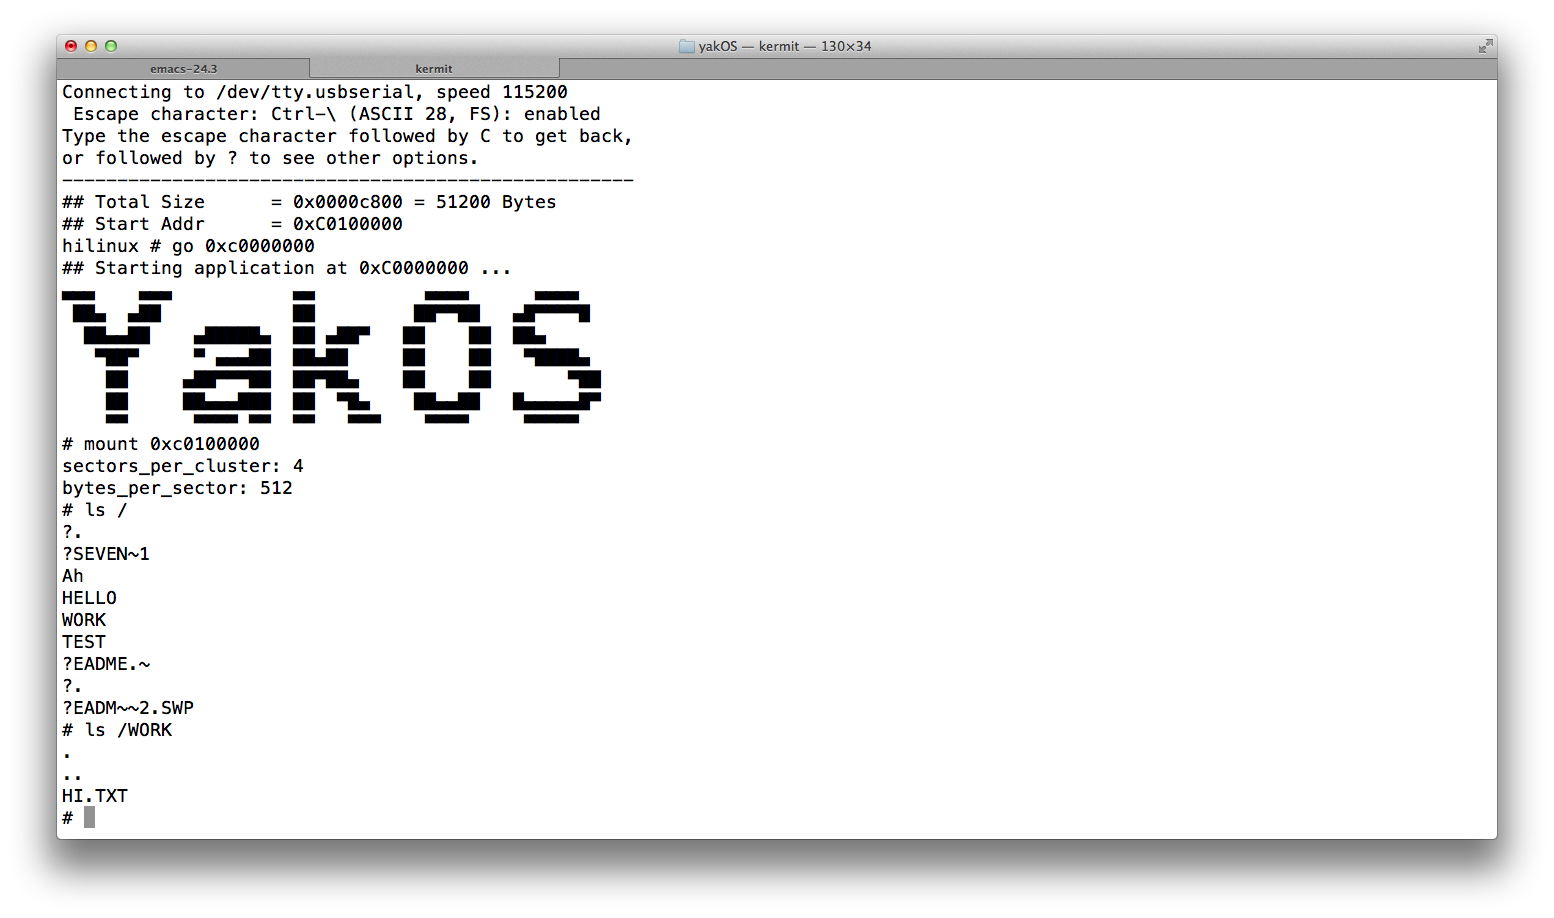
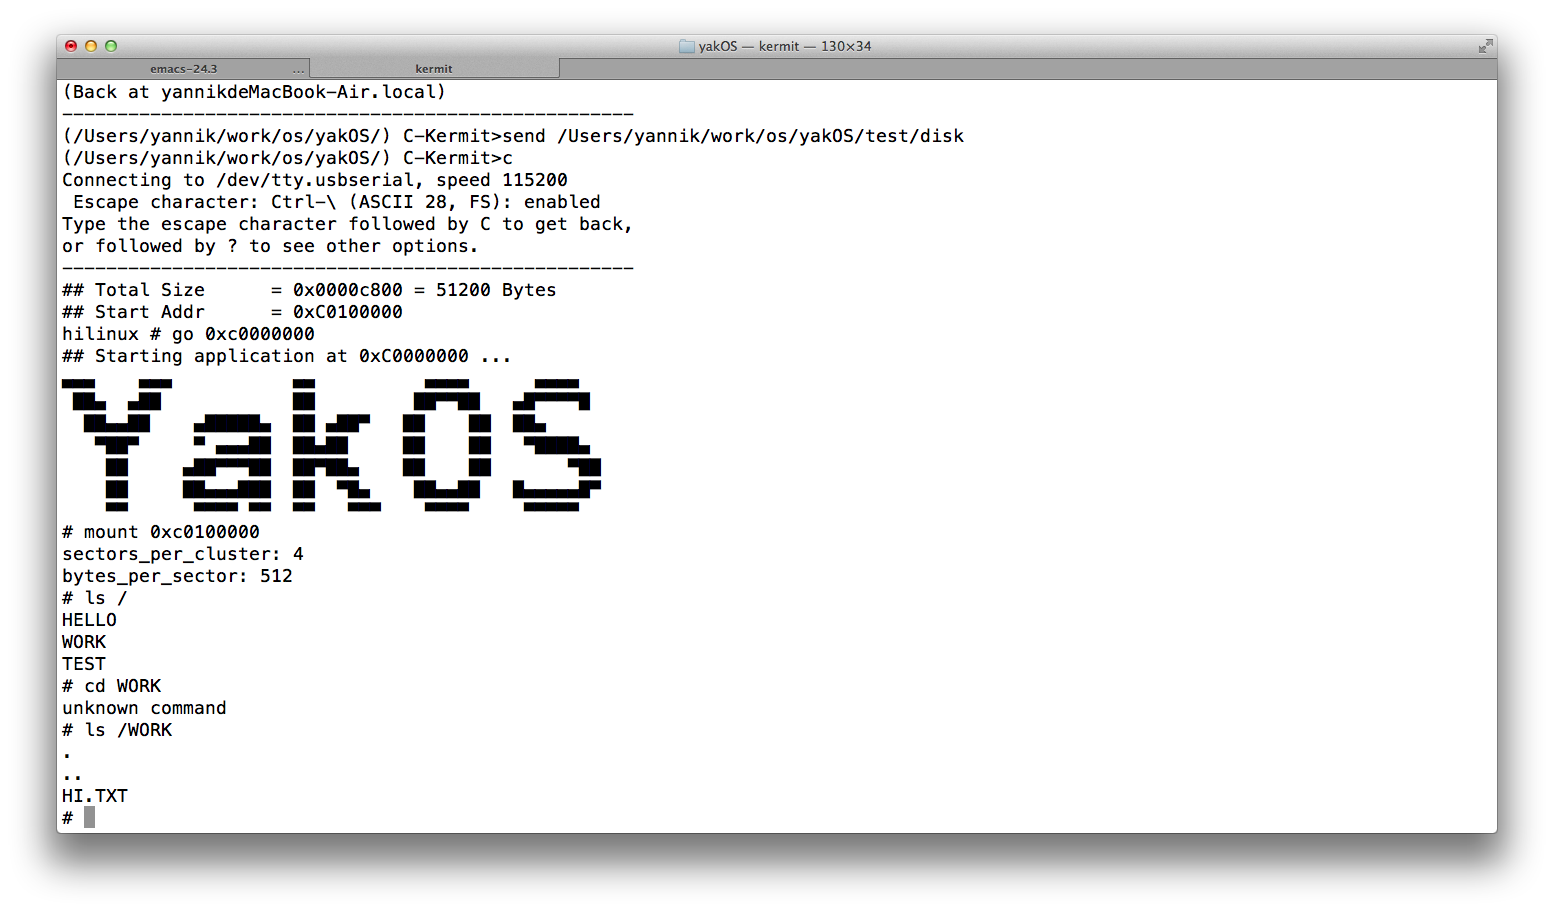
filter the deleted file in fat file system

Changed region(s): [[0.0309, 0.0614, 0.9575, 0.8289], [0.0309, 0.8596, 0.0927, 0.9211]]

diff --git a/fs/vfsfat.c b/fs/vfsfat.c
@@ -36,6 +36,16 @@
 #include "fs/vfsfs.h"
 #include "fs/vfsfat.h"
 
+#define DENTRY_IS_DIR(_dentry_)     ((_dentry_)->attribute & 0x10)
+#define DENTRY_IS_ARCHIVE(_dentry_) ((_dentry_)->attribute & 0x20)
+#define DENTRY_IS_LONG_NAME(_dentry_) \
+	(0x0F == (_dentry_)->attribute)
+#define DENTRY_IS_DELETED(_dentry_) \
+	(0xE5 == (uint8_t)((_dentry_)->name[0]))
+#define DENTRY_IS_ZERO(_dentry_) \
+	(0x00 == (uint8_t)((_dentry_)->name[0]))
+
+
 struct fat32_struct {
 	uint8_t jmp[3];
 	uint8_t oem[8];
@@ -557,6 +567,17 @@ static int fatfs_root_dir_read(struct fatfs_dirent *dirent, void *buf,
 
 	struct fat_entry *dirents;
 	dirents = (struct fat_entry *)sector_buffer;
+	struct fat_entry *dent = &dirents[dpcnt];
+
+	if (DENTRY_IS_ZERO(dent)) {
+		return -1;
+	}
+	else if(DENTRY_IS_DELETED(dent) ||
+		DENTRY_IS_LONG_NAME(dent)) {
+		dirent->lseek += 32;
+		*pcluster = 0;
+		return 0;
+	}
 
 	cpcnt = dirent_trim(dirents[dpcnt].name, 8);
 	if (cpcnt > 0) {

diff --git a/init/init_shell.c b/init/init_shell.c
@@ -237,7 +237,7 @@ CMD_FUNC(mount) {
 
 CMD_FUNC(ls) {
 	size_t count;
-	char buf[1024];
+	char buf[1024] = {0};
 	int fd;
 	struct vfs_node file;
 	char *path = args;
@@ -252,8 +252,10 @@ CMD_FUNC(ls) {
 		return -1;
 	}
 
-	while (!vfs_read(fd, buf, sizeof(buf), &count) && count > 0) {
-		printk("%s\n", buf);
+	while (!vfs_read(fd, buf, sizeof(buf), &count)) {
+		if (count > 0) {
+			printk("%s\n", buf);
+		}
 	}
 
 	if (vfs_close(fd)) {
